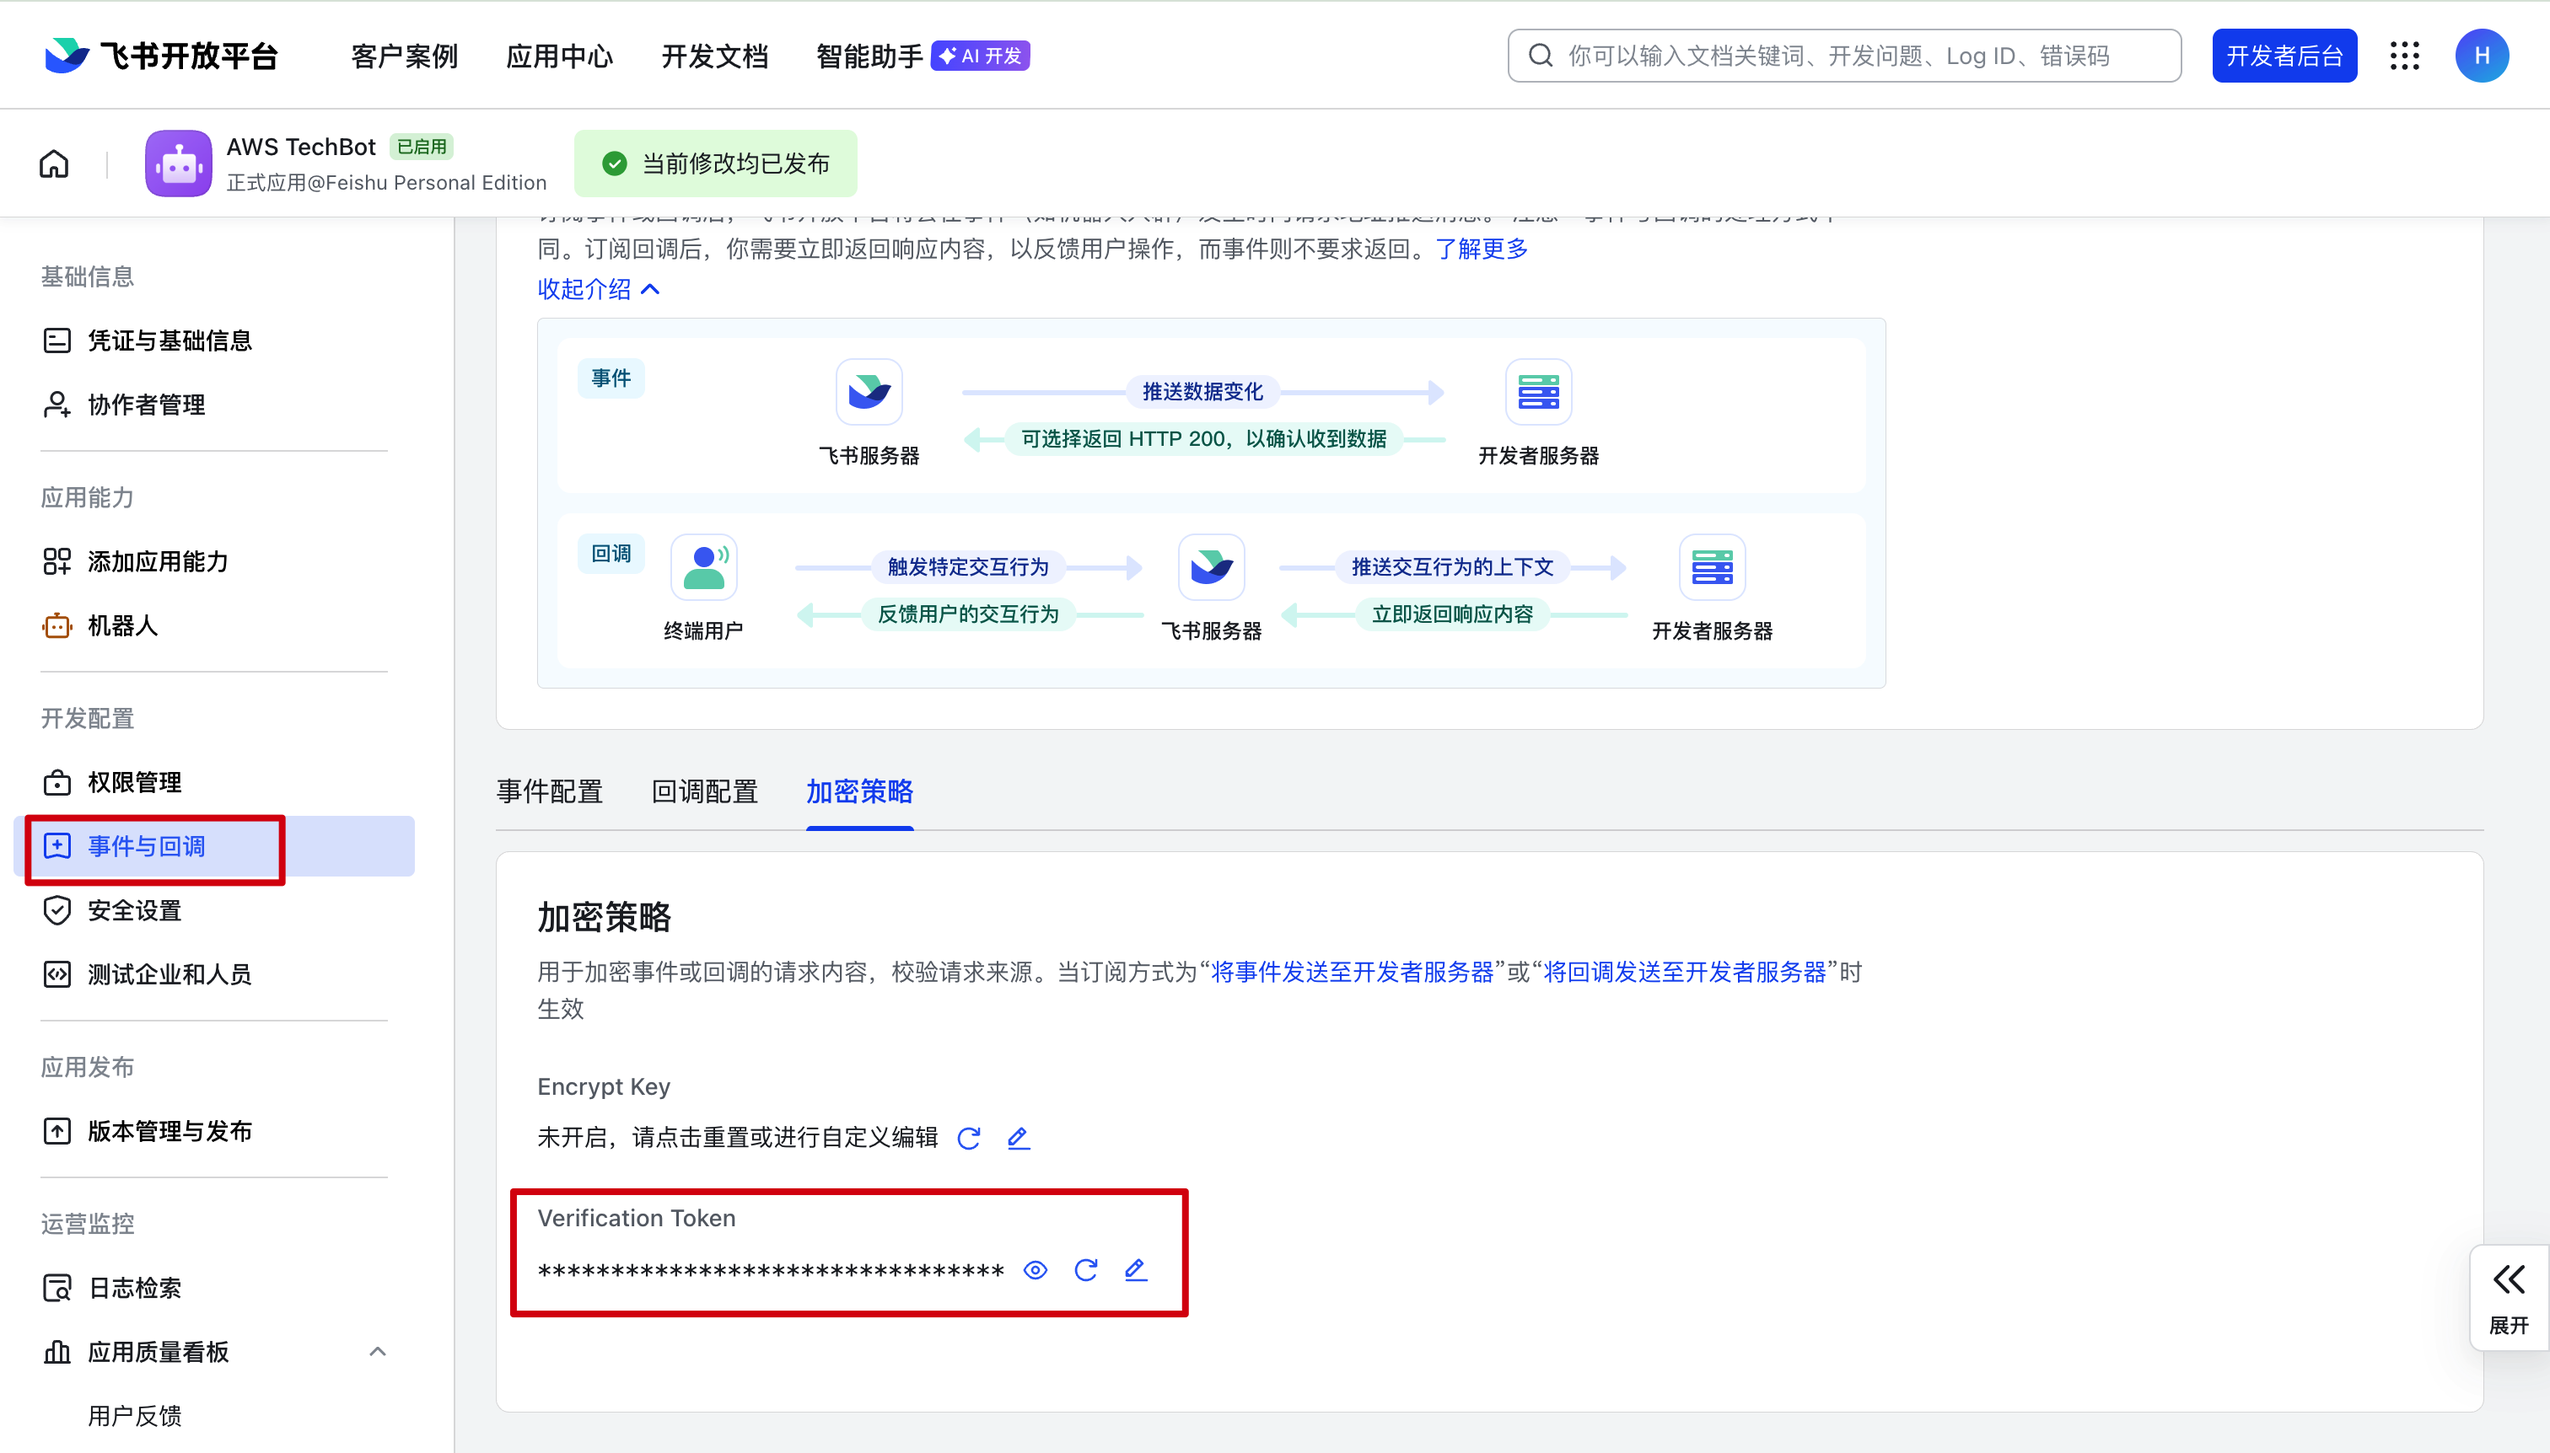
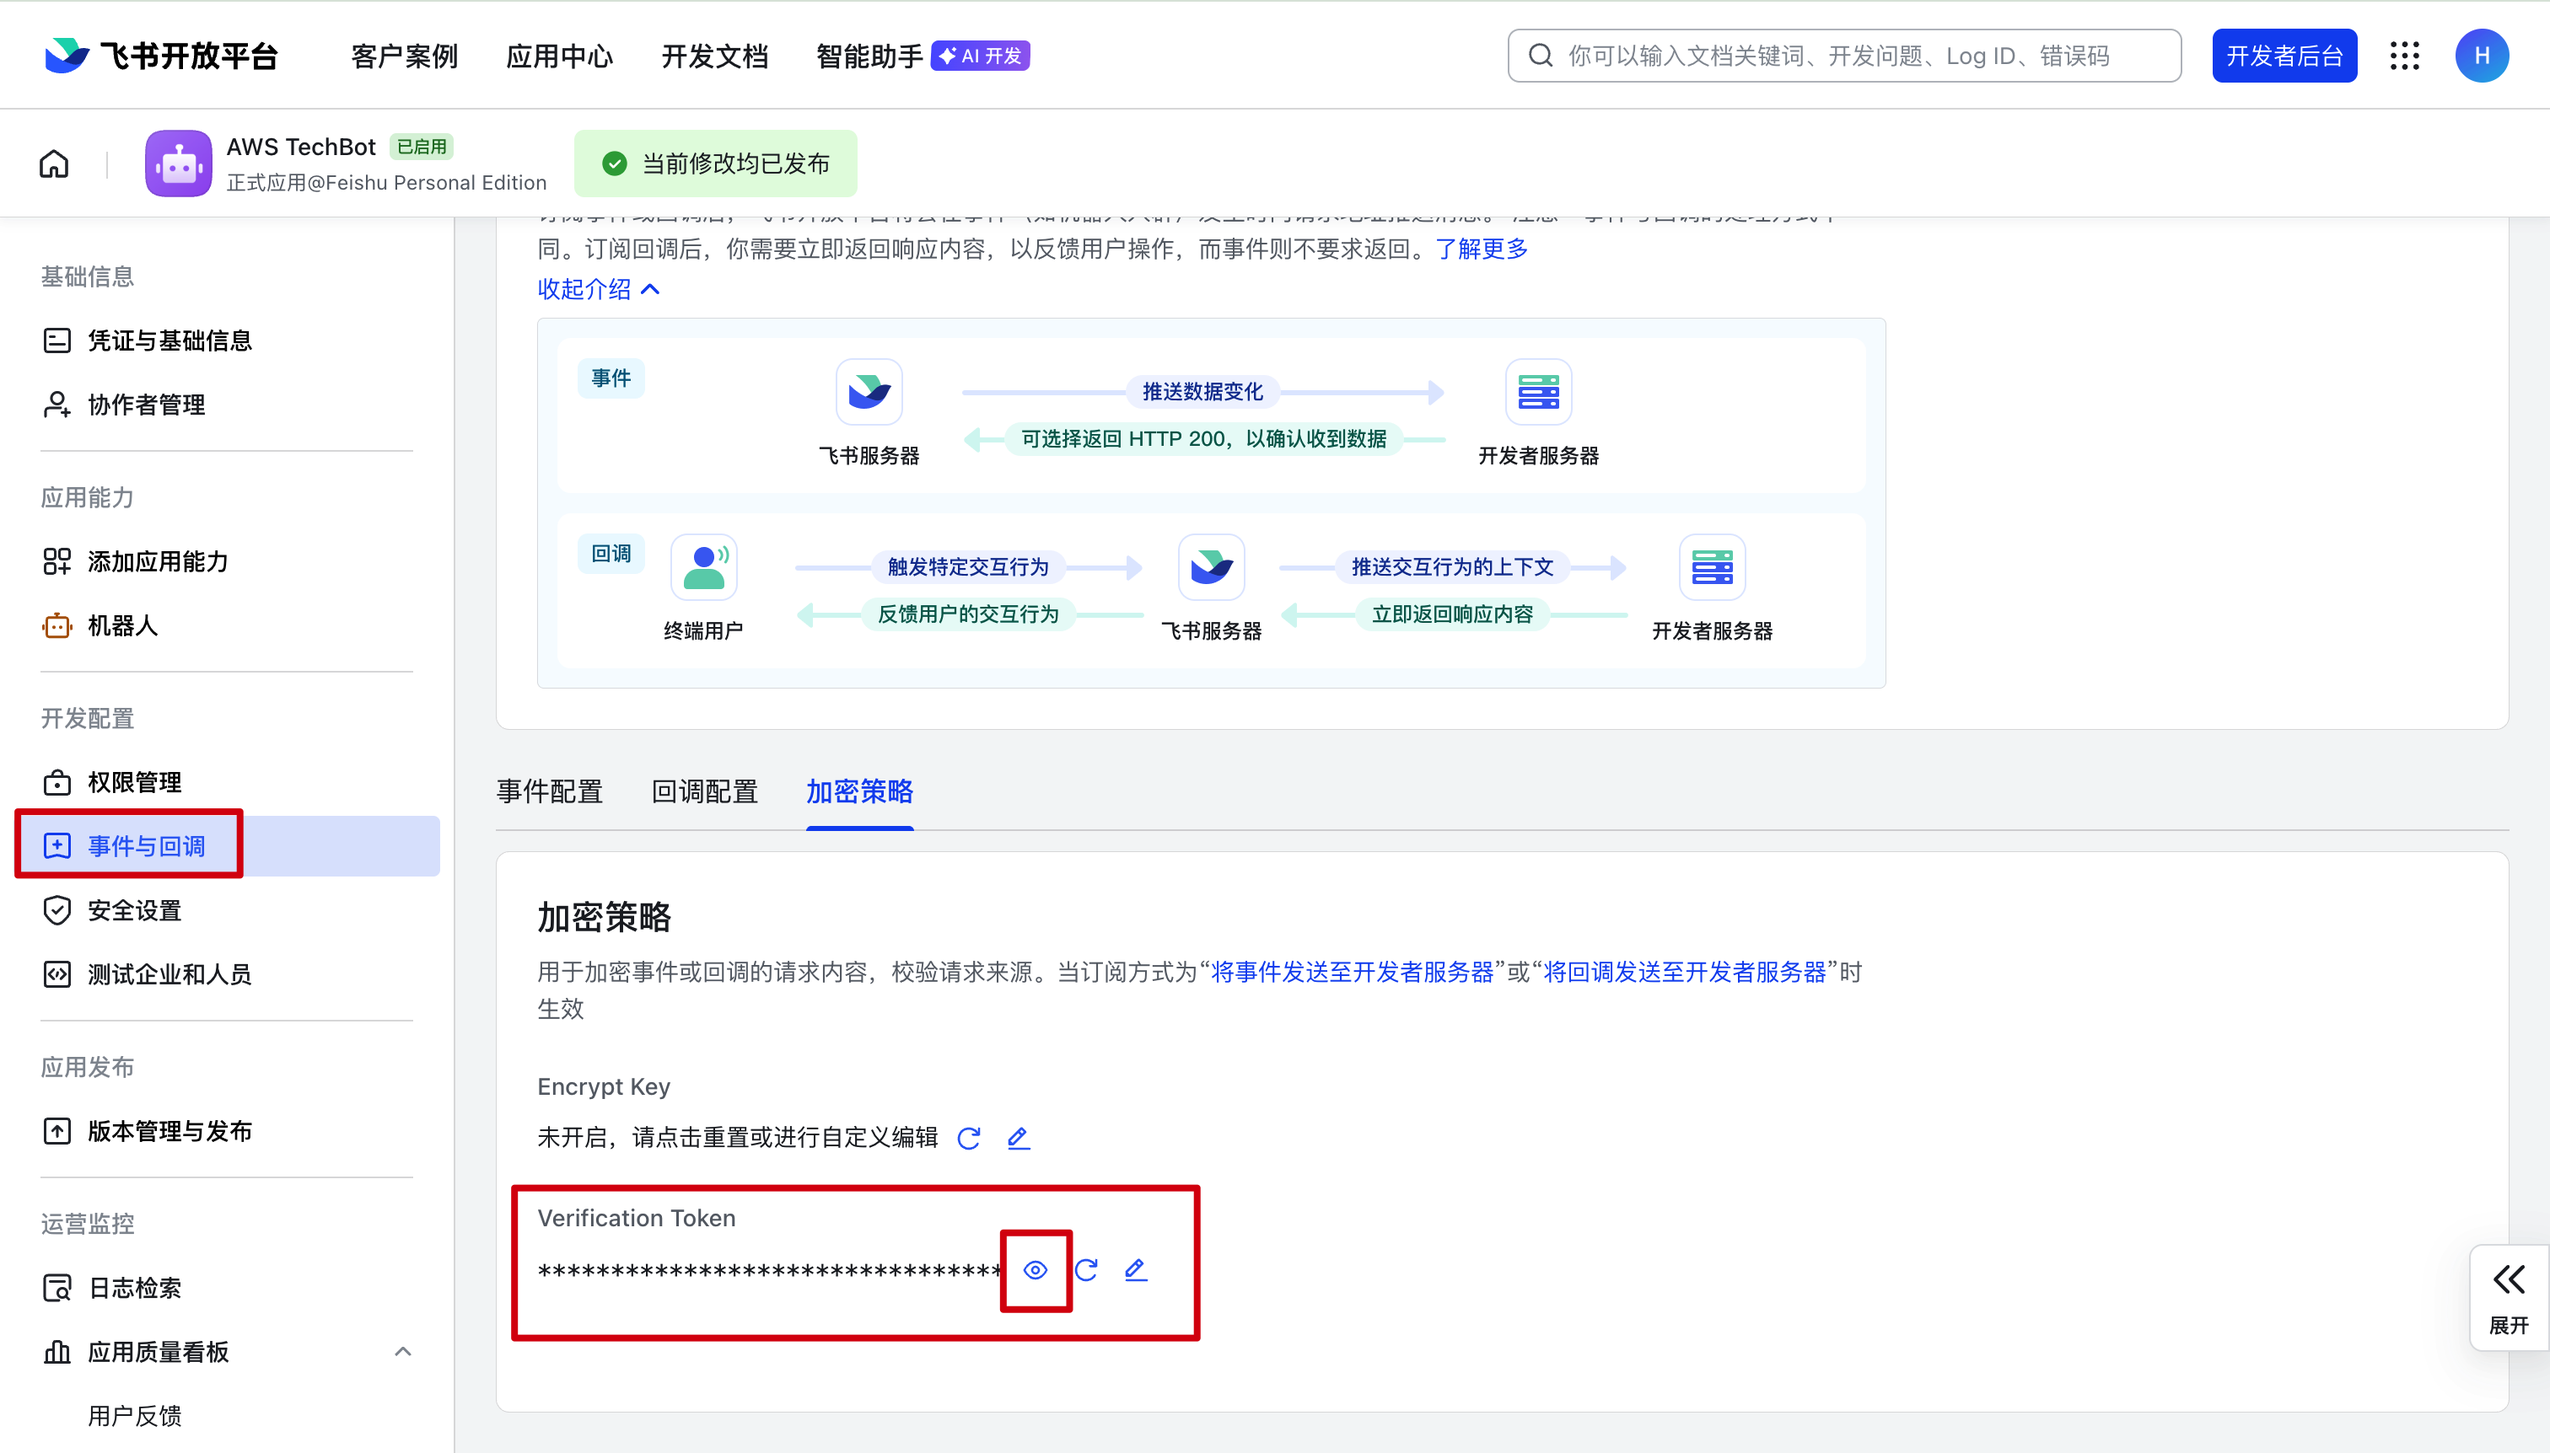
update

diff --git a/docs/feishu-setup-zh.md b/docs/feishu-setup-zh.md
@@ -71,8 +71,10 @@
 ## 第六步：配置加密
 
 1. 进入 **事件与回调** → **加密策略**
-2. 复制 **Verification Token** — 部署 CloudFormation 时需要填写
+2. 复制 **Verification Token （⚠ 注意：一定要点击眼睛图标再进行复制）** — 部署 CloudFormation 时需要填写
 <img src="images/zh/secrets-1.png" width="500" alt="加密配置">
+3. 复制点击眼睛图标后出现的 **明文形式的密码**
+<img src="images/zh/secrets-2.png" width="500" alt="加密配置">
 
 ---
 
